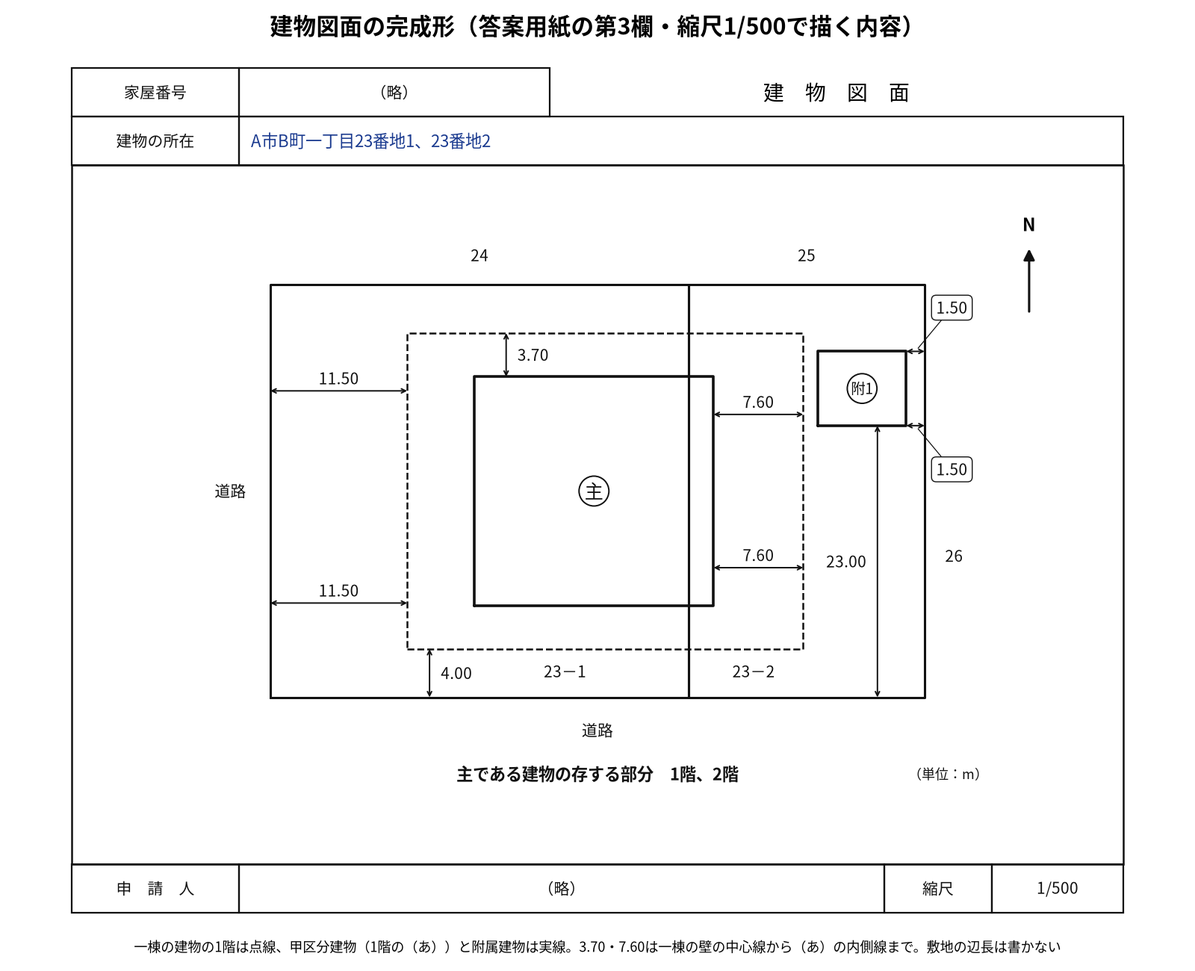
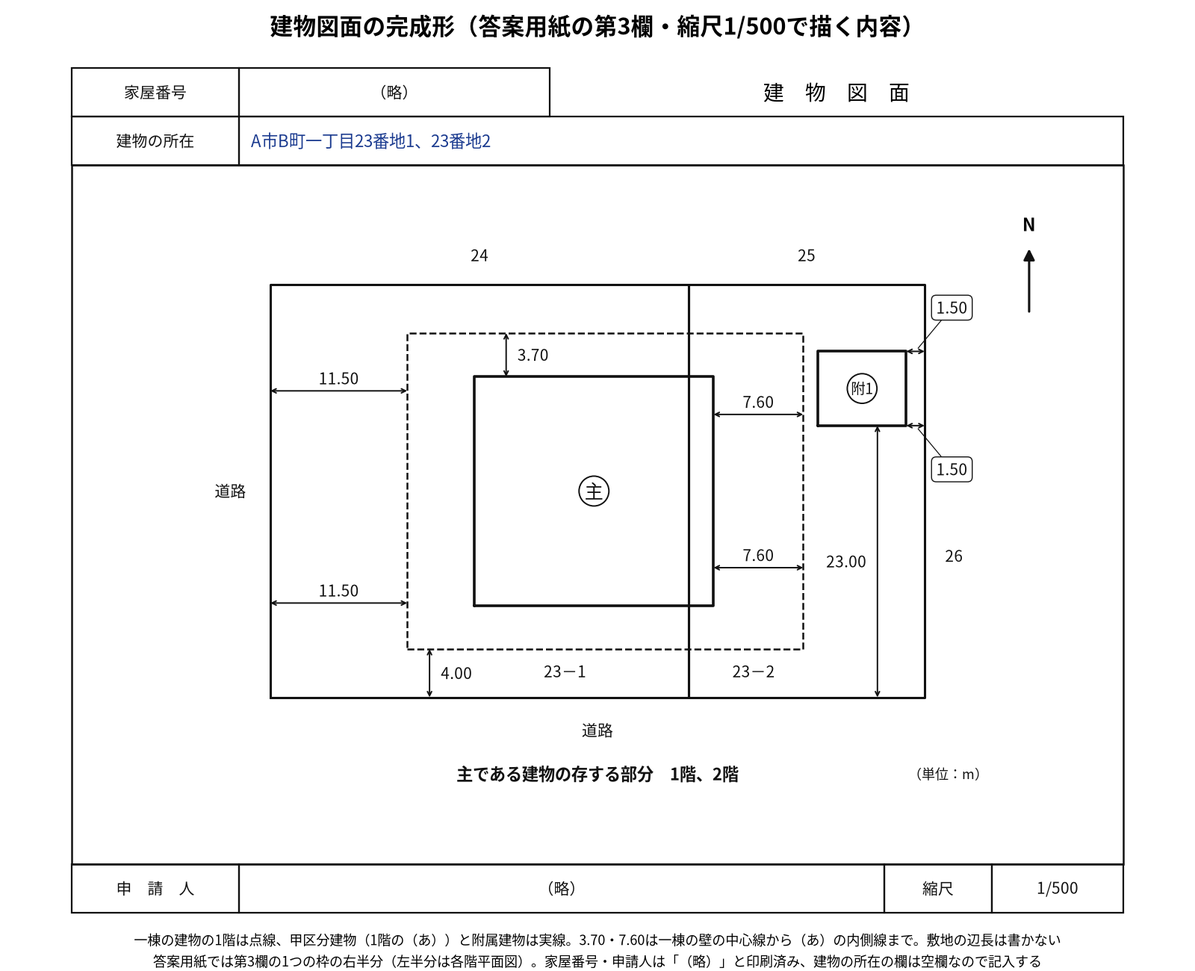
R1 Q22：試験の答案用紙の実物で欄の形を確かめ、各階平面図の作成年月日の印刷を直した
申請書・第2欄・建物図面の欄の形は実物と一致。各階平面図の作成年月日を「（令和元年○月○日作成）」に直し、第3欄が1つの枠の左右で建物の所在の欄だけ記入することを記事と図に追加。仮の記述を削り、照合スクリプトで答案用紙PDFの印刷文字を確かめるようにした。答えは変えていない（verify NG 0件、lint違反なし、重なり0件）。

Claude-Session: https://claude.ai/code/session_014aMAcBjFaE2M2LioX2yxPf

Changed region(s): [[0.125, 0.9538, 0.875, 1.0]]

diff --git a/note-articles-Kijyutsu/R1/Q22/verify_R1_dai22mon.py b/note-articles-Kijyutsu/R1/Q22/verify_R1_dai22mon.py
@@ -282,8 +282,8 @@ pngs = sorted(f[:-4] for f in os.listdir(ZU) if f.endswith('.png'))
 ok = pngs == sorted(n for n, _ in PNGS)
 ng += (not ok)
 print(('OK ' if ok else 'NG ') + f'zu/ のPNG {len(pngs)}枚がマーカーの対応先と一致（余分なPNGなし）')
-# 図面の完成形は答案用紙の第3欄の欄の形の枠の中（2026-09-30のルール）。令和元年度の答案用紙はリポジトリにないため、平成30年度にならった仮の形
-check('第3欄の枠（仮の形）', '平成30年度の答案用紙', fig, '解説図')
+# 図面の完成形は答案用紙の第3欄の欄の形の枠の中（2026-09-30のルール）。欄の形は試験の答案用紙（touan_youshi/）で確かめた
+check('第3欄の枠（試験の答案用紙で確認）', '`touan_youshi/R1_dai22mon_touan_youshi.pdf` の2ページ目', fig, '解説図')
 check('第3欄の枠（建物の所在）', '濃い青で「A市B町一丁目23番地1、23番地2」と記入する', fig, '解説図')
 check('穴埋めの答えの語の明示（問2の①②③）', '①『区分建物表題部変更登記』')
 check('穴埋めの答えの語の明示（問2の①②③）', '②『一棟の建物の名称を変更した日から1月以内』')
@@ -351,5 +351,60 @@ for s_ in ["'A市B町一丁目23番地1、23番地2', fs=16, ha='left', color=IN
            "'作　成　者'", "'1/250'", "'R1_dai22mon_zu07_kakukai_heimenzu'", '1階部分、2階部分（各階同型）',
            "area(kou), 2) == 393.82 and round(area(pk), 2) == 47.25"]:
     check('第3欄の枠・各階平面図の完成形', s_, drw, '作図')
+
+# ---- 試験の答案用紙（touan_youshi/）の印刷文字と、完成形・プロンプトの欄の形の照合（2026-10-02追加） ----
+TOUAN = os.path.join(HERE, 'touan_youshi', 'R1_dai22mon_touan_youshi.pdf')
+try:
+    import pymupdf
+    pages = [re.sub(r'\s+', '', pg.get_text()) for pg in pymupdf.open(TOUAN)]
+except Exception as e:  # noqa: BLE001
+    pages = None
+    ng += 1
+    print('NG 試験の答案用紙のPDFが読めない :', e)
+if pages:
+    p1, p2 = pages
+    # 1ページ目（第1欄・第2欄）：印刷文字。縦書きの見出しは1字ずつに分かれるので空白を除いて比べる
+    for s_ in ['登記申請書', '登記の目的', '添付書類', '申請人', '代理人', '（略）', '令和元年10月18日申請Ａ地方法務局',
+               '所在', '建物の名称', '①構造', '②床面積', '原因及びその日付', '①土地の符号', '②所在及び地番', '③地目', '④地積',
+               '家屋番号', '主である建物又は附属建物', '①種類', '②構造', '③床面積', '②敷地権の種類', '③敷地権の割合',
+               '第1欄', '第2欄', '①②③']:
+        ok = s_ in p1
+        ng += (not ok)
+        print(('OK ' if ok else 'NG ') + f'[答案用紙1ページ目] 印刷文字 : {s_}')
+    for s_ in ['登録免許税', '課税価格', '添付情報']:
+        ok = s_ not in p1
+        ng += (not ok)
+        print(('OK ' if ok else 'NG ') + f'[答案用紙1ページ目] 欄がない : {s_}')
+    # 申請人の欄が申請の日付より先（答案用紙の順序）
+    ok = p1.index('申請人') < p1.index('代理人') < p1.index('令和元年10月18日')
+    ng += (not ok)
+    print(('OK ' if ok else 'NG ') + '[答案用紙1ページ目] 順序：申請人 → 代理人（略） → 申請の日付・提出先')
+    # 2ページ目（第3欄）：各階平面図と建物図面が1つの枠、家屋番号・申請人・作成者は（略）、作成年月日と縮尺は印刷
+    for s_ in ['第3欄', '各階平面図', '建物図面', '家屋番号（略）', '建物の所在', '作成者（略）', '（令和元年○月○日作成）',
+               '縮尺1250', '申請人（略）', '縮尺1500']:
+        ok = s_ in p2
+        ng += (not ok)
+        print(('OK ' if ok else 'NG ') + f'[答案用紙2ページ目] 印刷文字 : {s_}')
+    ok = '建物の所在（略）' not in p2
+    ng += (not ok)
+    print(('OK ' if ok else 'NG ') + '[答案用紙2ページ目] 建物の所在の欄は空欄（（略）の印刷なし）＝記入する')
+    # 完成形の画像（作図スクリプト・HTML）と付属プロンプトが、答案用紙の印刷どおりか
+    for s_ in ["'（令和元年○月○日作成）'", "'（略）'", "'家屋番号'", "'建物の所在'", "'申　請　人'", "'作　成　者'"]:
+        check('第3欄の印刷文字（答案用紙どおり）', s_, drw, '作図')
+    for s_ in ['（令和元年○月○日作成）', '左半分が「各　階　平　面　図」、右半分が「建　物　図　面」',
+               '「家屋番号」の欄（「（略）」と印刷済み', '「申　請　人」の欄（「（略）」と印刷済み）', '「建物の所在」の欄（空欄で印刷されている）']:
+        check('第3欄の欄の形（答案用紙どおり）', s_, fig, '解説図')
+    for s_ in ['作成者（略）・（令和元年○月○日作成）・縮尺1/250', '家屋番号（略）、建物の所在「A市B町一丁目23番地1、23番地2」を記入、申請人（略）',
+               '左半分が各階平面図、右半分が建物図面', '『建物の所在』の欄だけは空欄']:
+        check('第3欄の欄の形（答案用紙どおり）', s_)
+    check('申請書の欄の形（答案用紙で確認）', '`touan_youshi/R1_dai22mon_touan_youshi.pdf` の1ページ目', form, '申請書')
+    check('添削の欄の形（答案用紙で確認）', '`touan_youshi/R1_dai22mon_touan_youshi.pdf` の1ページ目', fix, '添削')
+    html_has('R1_dai22mon_toukishinseisho_kansei', '代　　理　　人', '（略）', '令和元年10月18日　申請　Ａ地方法務局',
+             '主である', '附属建物', '敷地権の割合', '敷地権の種類', '所在及び地番')
+# 「仮」の形の記述が残っていないこと
+for nm, src in [('記事', text), ('解説図', fig), ('申請書', form), ('添削', fix), ('作図', drw),
+                ('申請書の作成', open(os.path.join(ZU, 'make_R1_dai22mon_shinseisho_gazou.py'), encoding='utf-8').read())]:
+    for s_ in ['仮の形', '仮のもの', '（仮', '答案用紙はリポジトリにない', 'リポジトリになく', '平成30年度にならい', '平成30年度にならった', '令和何年何月何日']:
+        absent('「仮」の記述', s_, src, nm)
 
 print('NG件数:', ng)

diff --git a/note-articles-Kijyutsu/R1/Q22/zu/draw_R1_dai22mon_kaisetsuzu.py b/note-articles-Kijyutsu/R1/Q22/zu/draw_R1_dai22mon_kaisetsuzu.py
@@ -1,9 +1,11 @@
 """令和元年度 第22問（建物）の解説図8枚を、頂点座標から作図してPNGに書き出す。
 
 `../prompt_R1_dai22mon_kaisetsuzu.md` の図1〜図8どおり（番号は記事の挿入順）。作図の共通部品は `tools/zu_helpers.py`。
-図3（建物図面）と図7（各階平面図）の完成形は、答案用紙の第3欄の欄の形の枠の中に描く。令和元年度の答案用紙はリポジトリにないため、
-欄の形（家屋番号（略）・建物の所在・申請人（略）・縮尺、作成者（略）・縮尺）は、前年の平成30年度の答案用紙
-（`public/kijutsu/H30-tatemono/a2.webp`）にならった仮のもの（試験の答案用紙で確かめたら直す）。
+図3（建物図面）と図7（各階平面図）の完成形は、答案用紙の第3欄の欄の形の枠の中に描く。欄の形は試験の答案用紙
+（`../touan_youshi/R1_dai22mon_touan_youshi.pdf` の2ページ目）で確かめた：第3欄は1つの枠の左半分が「各階平面図」、
+右半分が「建物図面」（枠の上下の中央に区切りの短い線）。右上に「家屋番号（略）」「建物の所在（空欄＝記入する）」の欄が1つだけあり、
+左下に「作成者（略）（令和元年○月○日作成）」「縮尺 1/250」、右下に「申請人（略）」「縮尺 1/500」が印刷されている。
+noteで読めるように、図3は右半分、図7は左半分を別の画像にしている。
 - 建物の座標は (東, 南) で持ち（原点は一棟の建物の北西の角の壁の中心線どうしの交点）、zu_helpers の (北, 東) には B() で変換する
 - 敷地の座標は (北, 東)。原点は23番1の南西の角（西側道路と南側道路の角）
 - 図1（構成図）は立面の模式図で、(東, 高さ) を E() で変換する（高さを図の上方向に取る）
@@ -170,7 +172,7 @@ def cell(fig, x0, y0, x1, y1, text='', fs=14, ha='center', lw=1.6, color=BLACK):
 INK = '#1a3a8f'   # 記入（濃い青）
 
 
-# ---- 図3：建物図面の完成形（答案用紙の第3欄の形の枠の中。欄の形は平成30年度にならった仮のもの） ----
+# ---- 図3：建物図面の完成形（答案用紙の第3欄の右半分。欄の形は試験の答案用紙で確かめた） ----
 def zu03():
     setup_font()
     fig = plt.figure(figsize=(16, 13), dpi=100)
@@ -186,8 +188,10 @@ def zu03():
     cell(fig, 0.20, 0.060, 0.74, 0.110, '（略）', fs=15)
     cell(fig, 0.74, 0.060, 0.83, 0.110, '縮尺', fs=15)
     cell(fig, 0.83, 0.060, 0.94, 0.110, '1/500', fs=15)
-    fig.text(0.5, 0.025, '一棟の建物の1階は点線、甲区分建物（1階の（あ））と附属建物は実線。3.70・7.60は一棟の壁の中心線から（あ）の内側線まで。'
+    fig.text(0.5, 0.032, '一棟の建物の1階は点線、甲区分建物（1階の（あ））と附属建物は実線。3.70・7.60は一棟の壁の中心線から（あ）の内側線まで。'
              '敷地の辺長は書かない', ha='center', va='center', fontsize=13)
+    fig.text(0.5, 0.010, '答案用紙では第3欄の1つの枠の右半分（左半分は各階平面図）。家屋番号・申請人は「（略）」と印刷済み、建物の所在の欄は空欄なので記入する',
+             ha='center', va='center', fontsize=13)
     ax = fig.add_axes([0.08, 0.125, 0.84, 0.69])
     z = Zu(ax, fontsize=14)
     fit(ax, S1 + S2, margin=0.08, extra=[xy(P(40, 27)), xy(P(-9, 27))], pad_aspect=True)
@@ -352,7 +356,7 @@ def zu06():
     save(fig, [z, z2, z3], 'R1_dai22mon_zu06_chuushajou_ayamari_hikaku')
 
 
-# ---- 図7：各階平面図の完成形（答案用紙の第3欄の形の枠の中。欄の形は平成30年度にならった仮のもの） ----
+# ---- 図7：各階平面図の完成形（答案用紙の第3欄の左半分。欄の形は試験の答案用紙で確かめた） ----
 def zu07():
     setup_font()
     fig = plt.figure(figsize=(18, 11), dpi=100)
@@ -361,11 +365,15 @@ def zu07():
     fig.text(0.5, 0.905, '各　階　平　面　図', ha='center', va='center', fontsize=20)
     cell(fig, 0.04, 0.13, 0.96, 0.88, lw=1.8)
     cell(fig, 0.04, 0.06, 0.14, 0.13, '作　成　者', fs=15)
-    cell(fig, 0.14, 0.06, 0.78, 0.13, '（略）　　　　　　　　　　　　（令和何年何月何日作成）', fs=15)
+    cell(fig, 0.14, 0.06, 0.78, 0.13)
+    fig.text(0.30, 0.095, '（略）', ha='center', va='center', fontsize=15)
+    fig.text(0.765, 0.075, '（令和元年○月○日作成）', ha='right', va='center', fontsize=15)
     cell(fig, 0.78, 0.06, 0.86, 0.13, '縮尺', fs=15)
     cell(fig, 0.86, 0.06, 0.96, 0.13, '1/250', fs=15)
-    fig.text(0.5, 0.025, '甲区分建物は内法（壁の内側線）、附属建物（符号1）は壁心。甲区分建物は1階部分と2階部分が同じ形なので1つの図に「各階同型」と書く。'
+    fig.text(0.5, 0.036, '甲区分建物は内法（壁の内側線）、附属建物（符号1）は壁心。甲区分建物は1階部分と2階部分が同じ形なので1つの図に「各階同型」と書く。'
              '求積表と床面積も書く（不動産登記規則第83条第1項）', ha='center', va='center', fontsize=13)
+    fig.text(0.5, 0.012, '答案用紙では第3欄の1つの枠の左半分（右半分は建物図面）。作成者は「（略）」と作成年月日「（令和元年○月○日作成）」が印刷済み。'
+             '家屋番号・建物の所在の欄は右上の建物図面の上に1つだけ', ha='center', va='center', fontsize=13)
     axes = [fig.add_axes([0.05, 0.36, 0.42, 0.46]), fig.add_axes([0.53, 0.36, 0.42, 0.46])]
     kou = [B(0, 0), B(20.3, 0), B(20.3, 19.4), B(0, 19.4)]
     pk = [B(0, 0), B(7.5, 0), B(7.5, 6.3), B(0, 6.3)]

diff --git a/note-articles-Kijyutsu/R1/Q22/zu/make_R1_dai22mon_shinseisho_gazou.py b/note-articles-Kijyutsu/R1/Q22/zu/make_R1_dai22mon_shinseisho_gazou.py
@@ -1,7 +1,7 @@
 """令和元年度 第22問（建物）登記申請書の画像（第1欄の完成形、第2欄の完成形、添削）を、HTML＋ヘッドレスブラウザでPNGに書き出す。
 
 - 第1欄の完成形：`../prompt_R1_dai22mon_toukishinseisho_gazou.md` の記入データ1どおり。縦長（横1200px）。
-  欄の形は試験の答案用紙（第22問答案用紙、A3横）に合わせ、左の列（登記の目的・添付書類・申請人・代理人・申請の日付・
+  欄の形は試験の答案用紙（第22問答案用紙、A3横。`../touan_youshi/R1_dai22mon_touan_youshi.pdf` の1ページ目で確かめた）に合わせ、左の列（登記の目的・添付書類・申請人・代理人・申請の日付・
   一棟の建物の表示・敷地権の目的である土地の表示）の下に、右の列（区分した建物の表示・敷地権の表示）を縦に積む。
   答案用紙の順序どおり、申請人が申請の日付より先。代理人の「（略）」と「令和元年10月18日　申請　Ａ地方法務局」は印刷。
   登録免許税の欄はない。一棟の建物の表示の②床面積は2つの小列（それぞれ整数部と小数部を点線で分ける）

diff --git a/note-articles-Kijyutsu/R1/Q22/prompt_R1_dai22mon_kaisetsuzu.md b/note-articles-Kijyutsu/R1/Q22/prompt_R1_dai22mon_kaisetsuzu.md
@@ -100,13 +100,14 @@
 
 第2章、トリ先生が「『主である建物の存する部分　1階、2階』と書き添えて完成よ」と言った直後に挿入する図。アガルートの解答例の建物図面と同じ記載事項にする。
 
-### 答案用紙の欄の枠（仮の形）
+### 答案用紙の欄の枠（試験の答案用紙で確かめた形）
 
-令和元年度の答案用紙はリポジトリになく、このやり直し（2026-10-02）の依頼にも添付がないため、前年の平成30年度の答案用紙（`public/kijutsu/H30-tatemono/a2.webp`。第3欄の右半分が建物図面）の欄の形にならった仮のものにする。試験の答案用紙で「（略）」の印刷の有無などを確かめたら直す。
+令和元年度の試験の答案用紙（`touan_youshi/R1_dai22mon_touan_youshi.pdf` の2ページ目、第3欄）で確かめた形にする。第3欄は1つの枠の左半分が「各　階　平　面　図」、右半分が「建　物　図　面」で、枠の上下の中央に区切りの短い線がある。noteで読めるように、図3は右半分、図7は左半分を別の画像にする。
 
-- 枠の上：左に「家屋番号」の欄（平成30年度にならい「（略）」。家屋番号は登記官が付ける）、その右に見出し「建　物　図　面」
-- その下の行：「建物の所在」の欄に、濃い青で「A市B町一丁目23番地1、23番地2」と記入する（一棟の建物の所在）
-- 枠の下：「申　請　人」の欄（平成30年度にならい「（略）」）、「縮尺」「1/500」
+- 枠の上：左に「家屋番号」の欄（「（略）」と印刷済み。家屋番号は登記官が付ける）、その右に見出し「建　物　図　面」
+- その下の行：「建物の所在」の欄（空欄で印刷されている）に、濃い青で「A市B町一丁目23番地1、23番地2」と記入する（一棟の建物の所在）。家屋番号と建物の所在の欄は、第3欄の右上（建物図面の上）に1つだけで、各階平面図と共通
+- 枠の下：「申　請　人」の欄（「（略）」と印刷済み）、「縮尺」「1/500」（印刷済み）
+- 枠の外の下に小さく「答案用紙では第3欄の1つの枠の右半分（左半分は各階平面図）。家屋番号・申請人は「（略）」と印刷済み、建物の所在の欄は空欄なので記入する」
 - 下の作図内容は、この枠の中に描く
 
 ### 作図内容（敷地の座標）
@@ -247,10 +248,11 @@
 
 第3章、トリ先生が「……これで問3の各階平面図も完成よ」と言った直後に挿入する図。求積図（図5）とは別に、答案に書く形（塗り分けなし）にする。
 
-### 答案用紙の欄の枠（仮の形。図3と同じく平成30年度にならう）
+### 答案用紙の欄の枠（試験の答案用紙で確かめた形。第3欄の左半分）
 
-- 枠の上に見出し「各　階　平　面　図」
-- 枠の下：「作　成　者」の欄（「（略）」と「（令和何年何月何日作成）」）、「縮尺」「1/250」
+- 枠の上に見出し「各　階　平　面　図」（家屋番号・建物の所在の欄は右半分の建物図面の上にあり、こちらにはない）
+- 枠の下：「作　成　者」の欄（「（略）」と、右下に作成年月日「（令和元年○月○日作成）」が印刷済み）、「縮尺」「1/250」（印刷済み）
+- 枠の外の下に小さく「答案用紙では第3欄の1つの枠の左半分（右半分は建物図面）。作成者は「（略）」と作成年月日「（令和元年○月○日作成）」が印刷済み。家屋番号・建物の所在の欄は右上の建物図面の上に1つだけ」
 
 ### 作図内容（建物の座標）
 
@@ -295,4 +297,4 @@ PNGを渡す前に、次の点を自分で確認してください。
 - PNG画像8枚（図1〜図8）
 - 作図に使ったPythonファイル（後で数値を直せるように）
 
-**このリポジトリで生成済み（2026-09-29）**：`zu/draw_R1_dai22mon_kaisetsuzu.py`（`tools/zu_helpers.py` を使用。重なりの自動検査0件、目視確認済み）で、`zu/R1_dai22mon_zu01_kousei.png`・`zu02_shikichi_kakunin`・`zu03_tatemono_zumen`・`zu04_kou_ayamari_hikaku`・`zu05_kou_kyuuseki`・`zu06_chuushajou_ayamari_hikaku`・`zu07_kakukai_heimenzu`・`zu08_toku_junban`（いずれも `R1_dai22mon_` で始まるPNG）を書き出した（2026-10-02、図面の完成形は答案用紙の欄の枠の中に描くルール〈2026-09-30〉に合わせて、図3を枠の中に描き直し、図7〈各階平面図の完成形〉を追加して解く順番を図8に送った。図5の説明文が横にはみ出して切れていたので2行に直した）。建物の座標は (東, 南)、敷地の座標は (北, 東) で持ち、作図スクリプトの中で多角形の面積（900.48・498.48・401.80・393.82・47.25・45.88・1242.50・700.00）と3.70・7.60を `assert` で確かめている。図4・図6の中央の壁の断面は、厚さを長さの方向より大きく拡大した模式
+**このリポジトリで生成済み（2026-09-29）**：`zu/draw_R1_dai22mon_kaisetsuzu.py`（`tools/zu_helpers.py` を使用。重なりの自動検査0件、目視確認済み）で、`zu/R1_dai22mon_zu01_kousei.png`・`zu02_shikichi_kakunin`・`zu03_tatemono_zumen`・`zu04_kou_ayamari_hikaku`・`zu05_kou_kyuuseki`・`zu06_chuushajou_ayamari_hikaku`・`zu07_kakukai_heimenzu`・`zu08_toku_junban`（いずれも `R1_dai22mon_` で始まるPNG）を書き出した（2026-10-02、試験の答案用紙〈`touan_youshi/`〉を受け取り、図3・図7の欄の枠を、前年度にならって作っていた形から実物の形に直した〈図7の作成年月日の印刷「（令和元年○月○日作成）」、第3欄が1つの枠の左右であること〉。同日それより前に、図面の完成形は答案用紙の欄の枠の中に描くルール〈2026-09-30〉に合わせて、図3を枠の中に描き直し、図7〈各階平面図の完成形〉を追加して解く順番を図8に送った。図5の説明文が横にはみ出して切れていたので2行に直した）。建物の座標は (東, 南)、敷地の座標は (北, 東) で持ち、作図スクリプトの中で多角形の面積（900.48・498.48・401.80・393.82・47.25・45.88・1242.50・700.00）と3.70・7.60を `assert` で確かめている。図4・図6の中央の壁の断面は、厚さを長さの方向より大きく拡大した模式

diff --git a/note-articles-Kijyutsu/R1/Q22/note_R1_dai22mon_tatemono_kaisetsu.md b/note-articles-Kijyutsu/R1/Q22/note_R1_dai22mon_tatemono_kaisetsu.md
@@ -132,7 +132,13 @@
 
 最後に、甲区分建物がどの階にあるかを『主である建物の存する部分　1階、2階』と書き添えて完成よ。準則第52条第2項は、区分建物が1階以外の階にあるときに『建物の存する部分』を書くと定めているわ。甲区分建物は2階にもまたがっているから、解答例も1階と2階を書き添えているの」
 
-> 【画像挿入】建物図面の完成形。答案用紙の第3欄の形の枠（家屋番号、建物の所在「A市B町一丁目23番地1、23番地2」、申請人、縮尺1/500）の中に、23番1・23番2の敷地を描き、一棟の建物の1階の外形を点線、甲区分建物（1階の（あ））を実線で描き、北3.70・東7.60（2か所）、西11.50（2か所）・南4.00、本件駐車場（附1）の東1.50（2か所）・南23.00、地番・隣接地・道路・方位、「主である建物の存する部分　1階、2階」を記入した図（辺長は書かない）
+**藍子**  
+「答案用紙の第3欄には、どこに何を書くんですか？」
+
+**トリ先生**  
+「第3欄は1つの枠で、左半分が各階平面図、右半分が建物図面。家屋番号・申請人・作成者の欄には『（略）』、作成者の欄には作成年月日の『（令和元年○月○日作成）』、縮尺の欄には1/250と1/500まで印刷済みよ。でも建物図面の上にある『建物の所在』の欄だけは空欄。ここに一棟の建物の所在『A市B町一丁目23番地1、23番地2』を書き忘れないこと」
+
+> 【画像挿入】建物図面の完成形。答案用紙の第3欄の右半分の枠（家屋番号（略）、建物の所在「A市B町一丁目23番地1、23番地2」を記入、申請人（略）、縮尺1/500）の中に、23番1・23番2の敷地を描き、一棟の建物の1階の外形を点線、甲区分建物（1階の（あ））を実線で描き、北3.70・東7.60（2か所）、西11.50（2か所）・南4.00、本件駐車場（附1）の東1.50（2か所）・南23.00、地番・隣接地・道路・方位、「主である建物の存する部分　1階、2階」を記入した図（辺長は書かない）
 
 ---
 
@@ -214,7 +220,7 @@
 **トリ先生**  
 「各階平面図には、各階の別、形、周囲の長さ、床面積と求積の方法、主である建物か附属建物か、附属建物の符号を書くの（規則第83条第1項）。甲区分建物は1階部分と2階部分が同じ形だから、1つの図に『1階部分、2階部分（各階同型）』と書いて、20.30と19.40の辺長の長方形を1つ（準則第53条第2項）。附属建物（符号1）は7.50と6.30の長方形を1つ。どちらにも求積表を添えて、縮尺は問題文の注3のとおり250分の1。これで問3の各階平面図も完成よ」
 
-> 【画像挿入】各階平面図の完成形。答案用紙の第3欄の形の枠（作成者・縮尺1/250）の中に、甲区分建物（主）の「1階部分、2階部分（各階同型）」20.30×19.40と、附属建物（符号1）の7.50×6.30を同じ縮尺で描き、それぞれの求積表と床面積（393.82㎡・47.25㎡）を記入した図
+> 【画像挿入】各階平面図の完成形。答案用紙の第3欄の左半分の枠（作成者（略）・（令和元年○月○日作成）・縮尺1/250）の中に、甲区分建物（主）の「1階部分、2階部分（各階同型）」20.30×19.40と、附属建物（符号1）の7.50×6.30を同じ縮尺で描き、それぞれの求積表と床面積（393.82㎡・47.25㎡）を記入した図
 
 ---
 

diff --git a/note-articles-Kijyutsu/R1/Q22/prompt_R1_dai22mon_toukishinseisho_gazou.md b/note-articles-Kijyutsu/R1/Q22/prompt_R1_dai22mon_toukishinseisho_gazou.md
@@ -2,7 +2,7 @@
 
 これは共通テンプレート（`../../prompt_toukishinseisho-gazou_kihon-form_tatemono.md`）をもとに、本問が**区分建物表題登記（非区分の附属建物つき）**であることに合わせて、「建物の表示」欄を「一棟の建物の表示」「敷地権の目的である土地の表示」「区分した建物の表示」「敷地権の表示」の4つの表に分けた版です（区分建物が関わる問題の実例は `../../R5/Q22/prompt_R5_dai22mon_toukishinseisho_gazou.md`）。共通テンプレートと異なる点は次のとおり。
 
-- 令和元年度の答案用紙（A3横）に合わせ、項目の順序が「登記の目的 → 添付書類 → 申請人 → 代理人 → 申請の日付と提出先」になっている（申請人が申請日より先）
+- 令和元年度の試験の答案用紙（A3横。`touan_youshi/R1_dai22mon_touan_youshi.pdf` の1ページ目で確かめた）に合わせ、項目の順序が「登記の目的 → 添付書類 → 申請人 → 代理人 → 申請の日付と提出先」になっている（申請人が申請日より先）
 - **登録免許税の欄がない**（表示に関する登記で、区分建物表題登記は課税の例外に当たらないため、答案用紙に欄自体がない）
 - 答案用紙の第2欄（問2の回答）を、2枚目の画像として別に作る
 
@@ -157,4 +157,4 @@ PNGを渡す前に、次の点を自分で確認してください。
 - PNG画像2枚（第1欄・第2欄）
 - 画像の元になったHTMLファイル（後で修正できるように）
 
-**このリポジトリで生成済み（2026-09-29）**：`zu/make_R1_dai22mon_shinseisho_gazou.py`（HTML＋Playwright・Chromium）で、`zu/R1_dai22mon_toukishinseisho_kansei.png`（第1欄、1200×2131px、縦長）と `zu/R1_dai22mon_toukishinseisho_kansei_dai2ran.png`（第2欄、1200×420px）、それぞれのHTMLを書き出した。答案用紙はA3横の2列だが、画像では左の列の下に右の列を縦に積んでいる
+**このリポジトリで生成済み（2026-09-29）**：`zu/make_R1_dai22mon_shinseisho_gazou.py`（HTML＋Playwright・Chromium）で、`zu/R1_dai22mon_toukishinseisho_kansei.png`（第1欄、1200×2131px、縦長）と `zu/R1_dai22mon_toukishinseisho_kansei_dai2ran.png`（第2欄、1200×420px）、それぞれのHTMLを書き出した。答案用紙はA3横の2列だが、画像では左の列の下に右の列を縦に積んでいる。2026-10-02、試験の答案用紙（`touan_youshi/`）で欄の名前・順序・印刷文字（代理人の「（略）」、「令和元年10月18日　申請　Ａ地方法務局」、登録免許税の欄がないこと、一棟の建物の表示の②床面積が2つの小列、敷地権の目的である土地の表示が2行、区分した建物の表示が3行、敷地権の表示が2行、第2欄が①②③の3行）を1つずつ照らし、すべて一致していたので記入内容・形は変えていない
